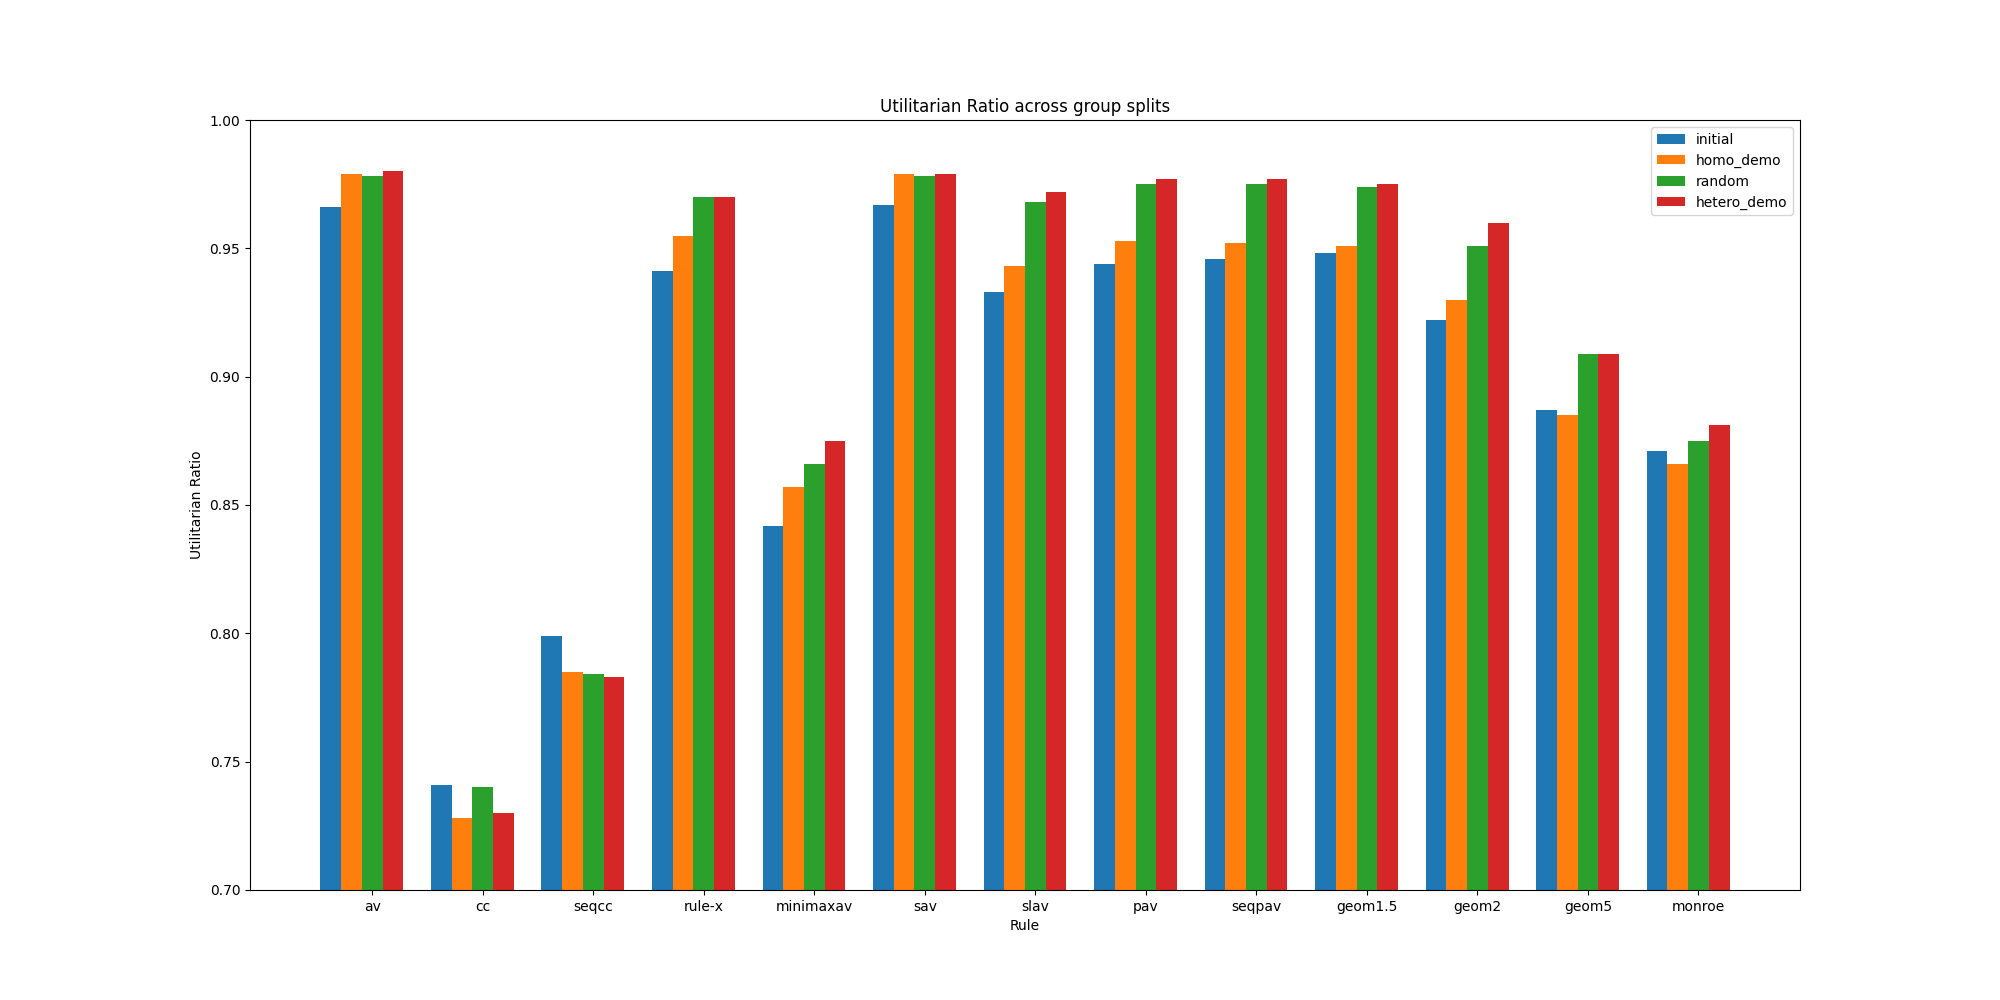
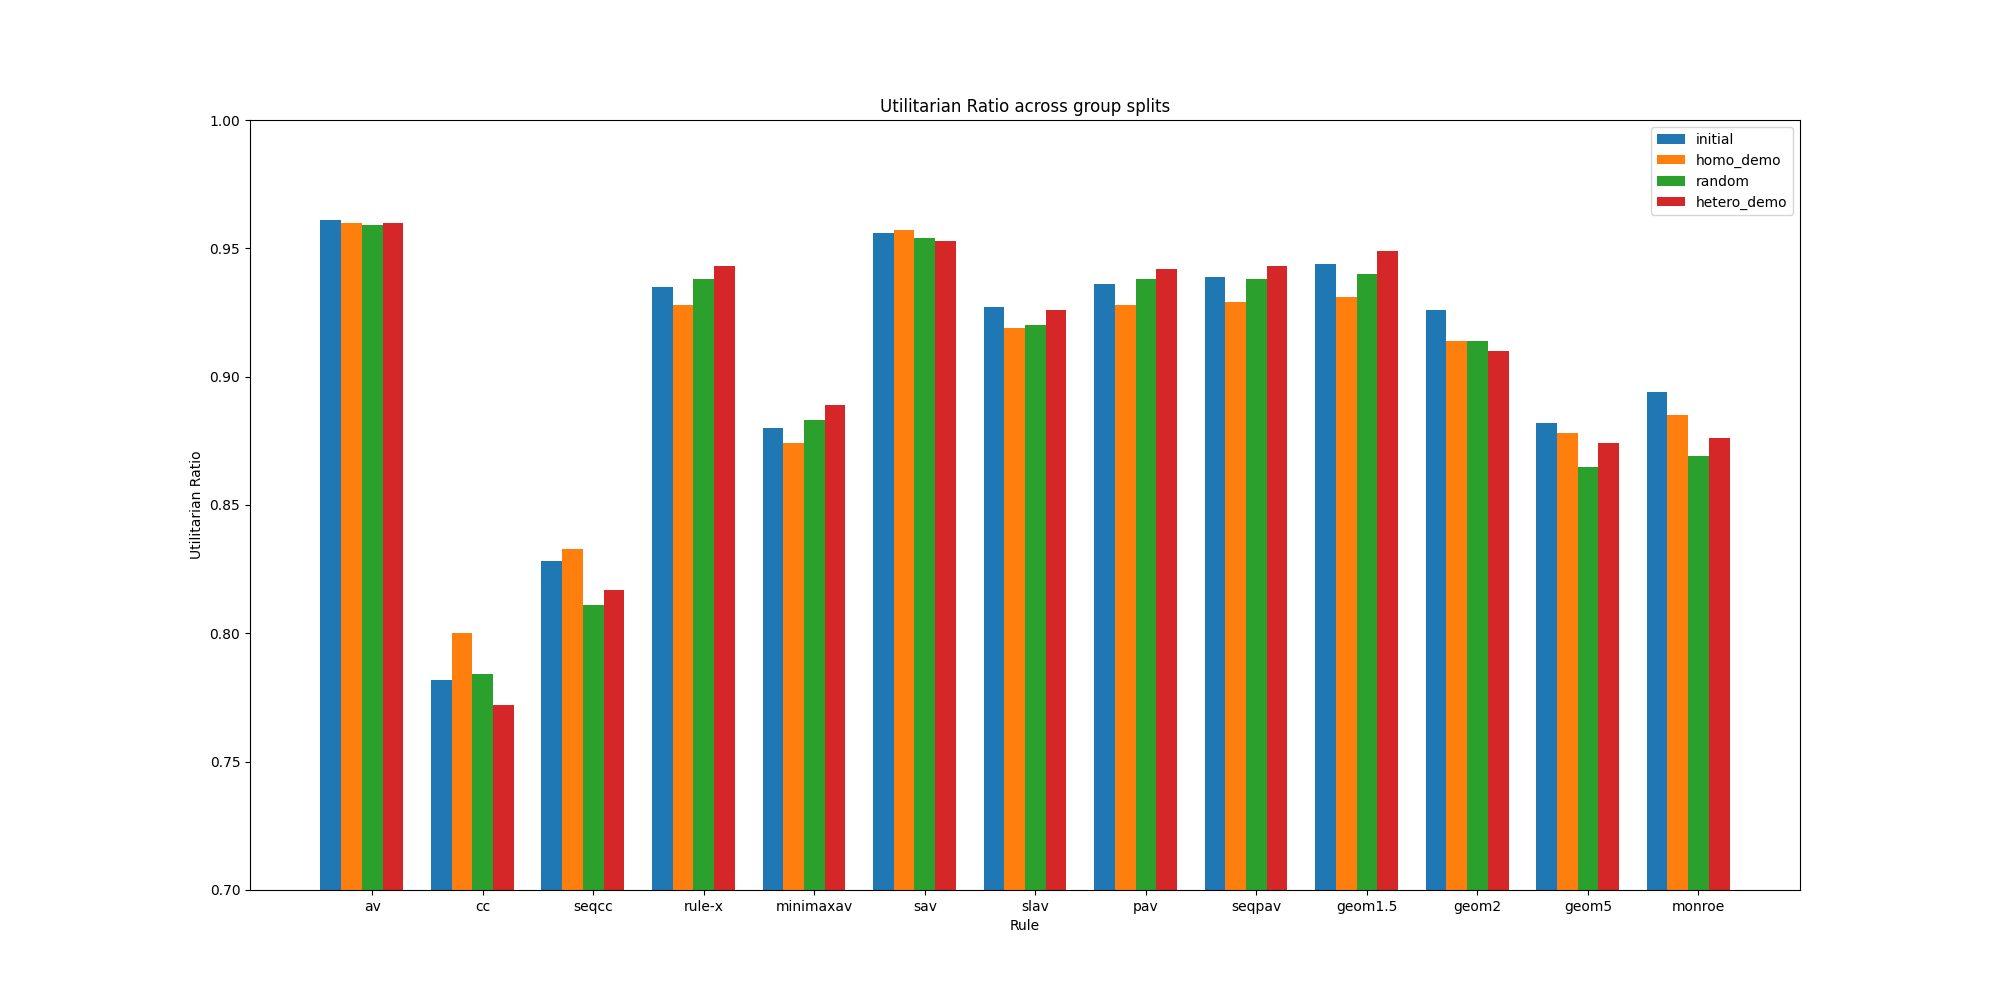
changed config to 10 approval size

diff --git a/soc/config.py b/soc/config.py
@@ -6,7 +6,7 @@ num_winners = 5
 approval_low = 3
 approval_high = 10
 #approval_choices = list(range(approval_low, approval_high+1))
-approval_choices = [9,10,11]
+approval_choices = [10]
 
 num_simulations = 100
 group_size = 10
